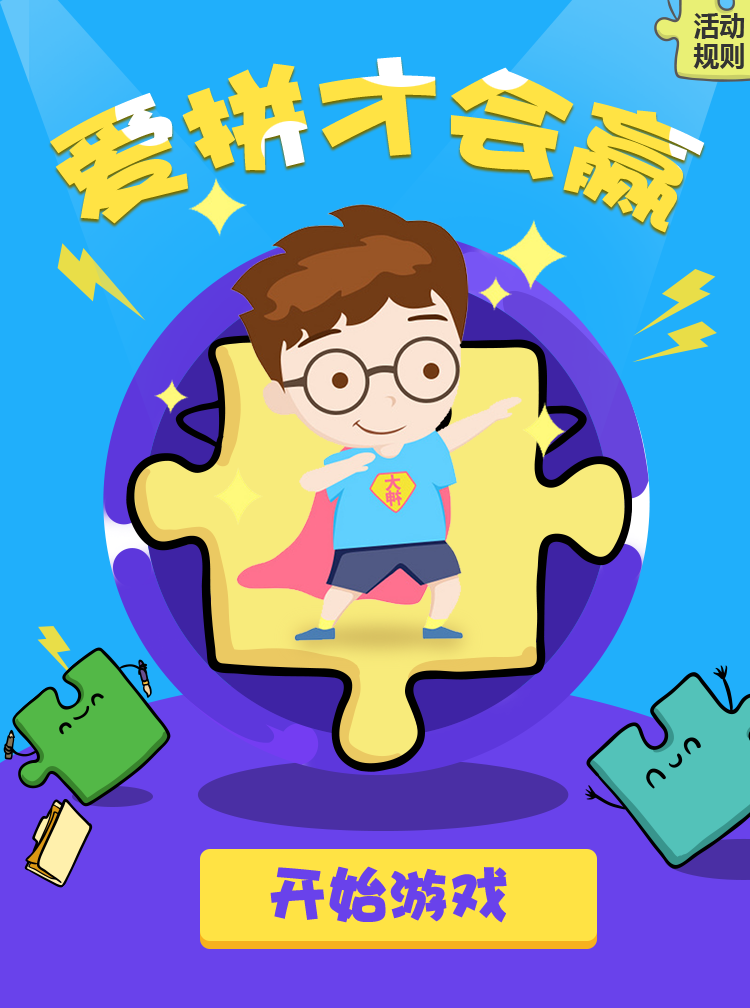
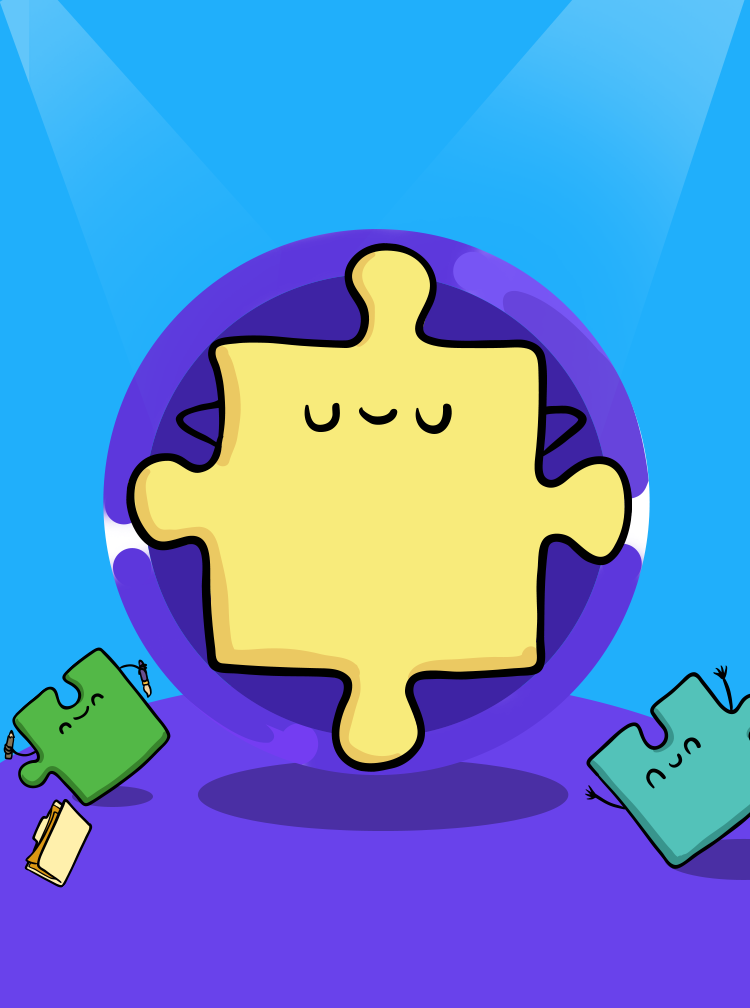
feat s1

diff --git a/styles/common.css b/styles/common.css
@@ -1,1 +1,1 @@
-@import url(../js/lib/animate.css);#scene1{width:100%;height:100%;background:#6942eb url("../img/s1-bg.png") no-repeat 0 0;background-size:100%;position:relative;display:none}#scene1 button.start{width:8.53333rem;height:2.176rem;position:absolute;left:4.26667rem;top:18.09067rem;opacity:0}#scene1 button.rule{width:2.02667rem;height:1.70667rem;background:seagreen;position:absolute;left:13.99467rem;top:0;opacity:0}#scene2{width:100%;height:100%;background-size:100%;display:none;overflow:hidden;background:seagreen}#scene2 .countdown{width:10.24rem;height:2.77333rem;margin:.85333rem auto .74667rem}#scene2 .jigsaw{width:100%;height:15.04rem;display:flex;align-items:center}#scene2 .jigsaw-container{display:flex;flex-wrap:wrap;position:relative;margin:0 auto;-webkit-appearance:none;-webkit-backface-visibility:hidden;-webkit-transform-style:preserve-3d;transform:translate3d(0, 0, 0)}#scene2 .img{flex-shrink:0;position:absolute;top:0;left:0;transition:top .5s ease-in-out, left .5s ease-in-out;opacity:1;z-index:1}#scene2 .img.drag-move{opacity:0.7;transition:opacity .3s ease-in-out;z-index:19911125}#scene2 .img.moving{transition:top .3s ease-in-out, left .3s ease-in-out}#scene2 .preview{transform:scale(0.3) translate(-50%, 100%);transform-origin:left bottom;z-index:5;display:flex}#scene2 .preview img{width:13.65333rem;height:13.65333rem;display:inline-block}#scene2 .preview.show{bottom:.32rem;transform:scale(0.3) translate(-50%, 0);transition:bottom .3s, transform .3s}#scene2 .preview.show-all{bottom:auto;top:0;transform:scale(1) translate(-50%, 0);transition:bottom .3s, transform .3s}#scene2 .backdrop{position:fixed;width:100%;height:100%;display:block;background:transparent;z-index:-1;transition:.5s}#scene2 .backdrop.active{z-index:1;background:rgba(0,0,0,0.5)}*{box-sizing:border-box;-webkit-tap-highlight-color:transparent}*:focus{outline:none}html,body{padding:0;height:100%;margin:0 auto;background:#eee}body{width:16rem;margin:0 auto}ul,li{margin:0;padding:0;list-style:none}
+@import url(../js/lib/animate.css);#scene1{width:100%;height:100%;background:#6942eb url("../img/s1-bg.png") no-repeat 0 0;background-size:100%;position:relative;display:none}#scene1 .man{width:14.08rem;height:10.51733rem;background:url("../img/s1-1.png") no-repeat 0 0;background-size:100%;position:absolute;top:3.79733rem;left:1.28rem;animation-duration:.7s}#scene1 .title{width:14.05867rem;height:3.88267rem;background:url("../img/s1-2.png") no-repeat 0 0;background-size:100%;position:absolute;top:1.17333rem;left:1.06667rem;animation-duration:1s;animation-delay:.4s}#scene1 .start{width:8.46933rem;height:2.13333rem;background:url("../img/s1-4.png") no-repeat 0 0;background-size:100%;border:none;position:absolute;top:18.77333rem;left:3.84rem;animation-duration:.4s;animation-delay:.9s}#scene1 .rule{width:2.048rem;height:1.74933rem;background:url("../img/s1-3.png") no-repeat 0 0;background-size:100%;border:none;position:absolute;top:0;right:0;animation-duration:.3s;animation-delay:1.3s}#__bs_notify__{display:none !important}#scene2{width:100%;height:100%;background-size:100%;display:none;overflow:hidden;background:seagreen}#scene2 .countdown{width:10.24rem;height:2.77333rem;margin:.85333rem auto .74667rem}#scene2 .jigsaw{width:100%;height:15.04rem;display:flex;align-items:center}#scene2 .jigsaw-container{display:flex;flex-wrap:wrap;position:relative;margin:0 auto;-webkit-appearance:none;-webkit-backface-visibility:hidden;-webkit-transform-style:preserve-3d;transform:translate3d(0, 0, 0)}#scene2 .img{flex-shrink:0;position:absolute;top:0;left:0;transition:top .5s ease-in-out, left .5s ease-in-out;opacity:1;z-index:1}#scene2 .img.drag-move{opacity:0.7;transition:opacity .3s ease-in-out;z-index:19911125}#scene2 .img.moving{transition:top .3s ease-in-out, left .3s ease-in-out}#scene2 .preview{transform:scale(0.3) translate(-50%, 100%);transform-origin:left bottom;z-index:5;display:flex}#scene2 .preview img{width:13.65333rem;height:13.65333rem;display:inline-block}#scene2 .preview.show{bottom:.32rem;transform:scale(0.3) translate(-50%, 0);transition:bottom .3s, transform .3s}#scene2 .preview.show-all{bottom:auto;top:0;transform:scale(1) translate(-50%, 0);transition:bottom .3s, transform .3s}#scene2 .backdrop{position:fixed;width:100%;height:100%;display:block;background:transparent;z-index:-1;transition:.5s}#scene2 .backdrop.active{z-index:1;background:rgba(0,0,0,0.5)}*{box-sizing:border-box;-webkit-tap-highlight-color:transparent}*:focus{outline:none}html,body{padding:0;height:100%;margin:0 auto;background:#eee}body{width:16rem;margin:0 auto}ul,li{margin:0;padding:0;list-style:none}

diff --git a/styles/scene1.scss b/styles/scene1.scss
@@ -6,24 +6,56 @@
   position: relative;
   display: none;
 
-  button {
-    &.start {
-      width: px2rem(400);
-      height: px2rem(102);
-      position: absolute;
-      left: px2rem(200);
-      top: px2rem(848);
-      opacity: 0;
-    }
-
-    &.rule {
-      width: px2rem(95);
-      height: px2rem(80);
-      background: seagreen;
-      position: absolute;
-      left: px2rem(656);
-      top: 0;
-      opacity: 0;
-    }
+  .man {
+    width: px2rem(660);
+    height: px2rem(493);
+    background: url("../img/s1-1.png") no-repeat 0 0;
+    background-size: 100%;
+    position: absolute;
+    top: px2rem(178);
+    left:px2rem(60);
+    animation-duration: .7s;
   }
+
+  .title {
+    width: px2rem(659);
+    height: px2rem(182);
+    background: url("../img/s1-2.png") no-repeat 0 0;
+    background-size: 100%;
+    position: absolute;
+    top: px2rem(55);
+    left:px2rem(50);
+    animation-duration: 1s;
+    animation-delay: .4s;
+  }
+
+  .start {
+    width: px2rem(397);
+    height: px2rem(100);
+    background: url("../img/s1-4.png") no-repeat 0 0;
+    background-size: 100%;
+    border:none;
+    position: absolute;
+    top: px2rem(880);
+    left:px2rem(180);
+    animation-duration: .4s;
+    animation-delay: .9s;
+  }
+
+  .rule {
+    width: px2rem(96);
+    height: px2rem(82);
+    background: url("../img/s1-3.png") no-repeat 0 0;
+    background-size: 100%;
+    border:none;
+    position: absolute;
+    top: 0;
+    right:0;
+    animation-duration: .3s;
+    animation-delay: 1.3s;
+  }
+}
+
+#__bs_notify__ {
+  display: none!important;
 }

diff --git a/index.html b/index.html
@@ -8,8 +8,10 @@
 <body>
 
 <div id="scene1">
-    <button class="start">开始游戏</button>
-    <button class="rule">规则</button>
+    <div class="man bounceInDown animated"></div>
+    <div class="title bounceIn  animated"></div>
+    <button class="rule rotateInDownRight animated"></button>
+    <button class="start rollIn animated"></button>
 </div>
 
 <div id="scene2">
@@ -36,8 +38,7 @@
 <script>
     window.GAME_PARAMS = {
         items: [
-//                'https://img.alicdn.com/tps/TB1xYK8NFXXXXXCaXXXXXXXXXXX-520-280.jpg',
-            'https://img.alicdn.com/tps/TB1Kbe3NFXXXXXmaXXXXXXXXXXX-880-70.jpg',
+                'https://gd1.alicdn.com/imgextra/i3/0/TB1bvAkIVXXXXcrXpXXXXXXXXXX_!!0-item_pic.jpg',
         ],
         time : 113000,
         sizeX: 3,
